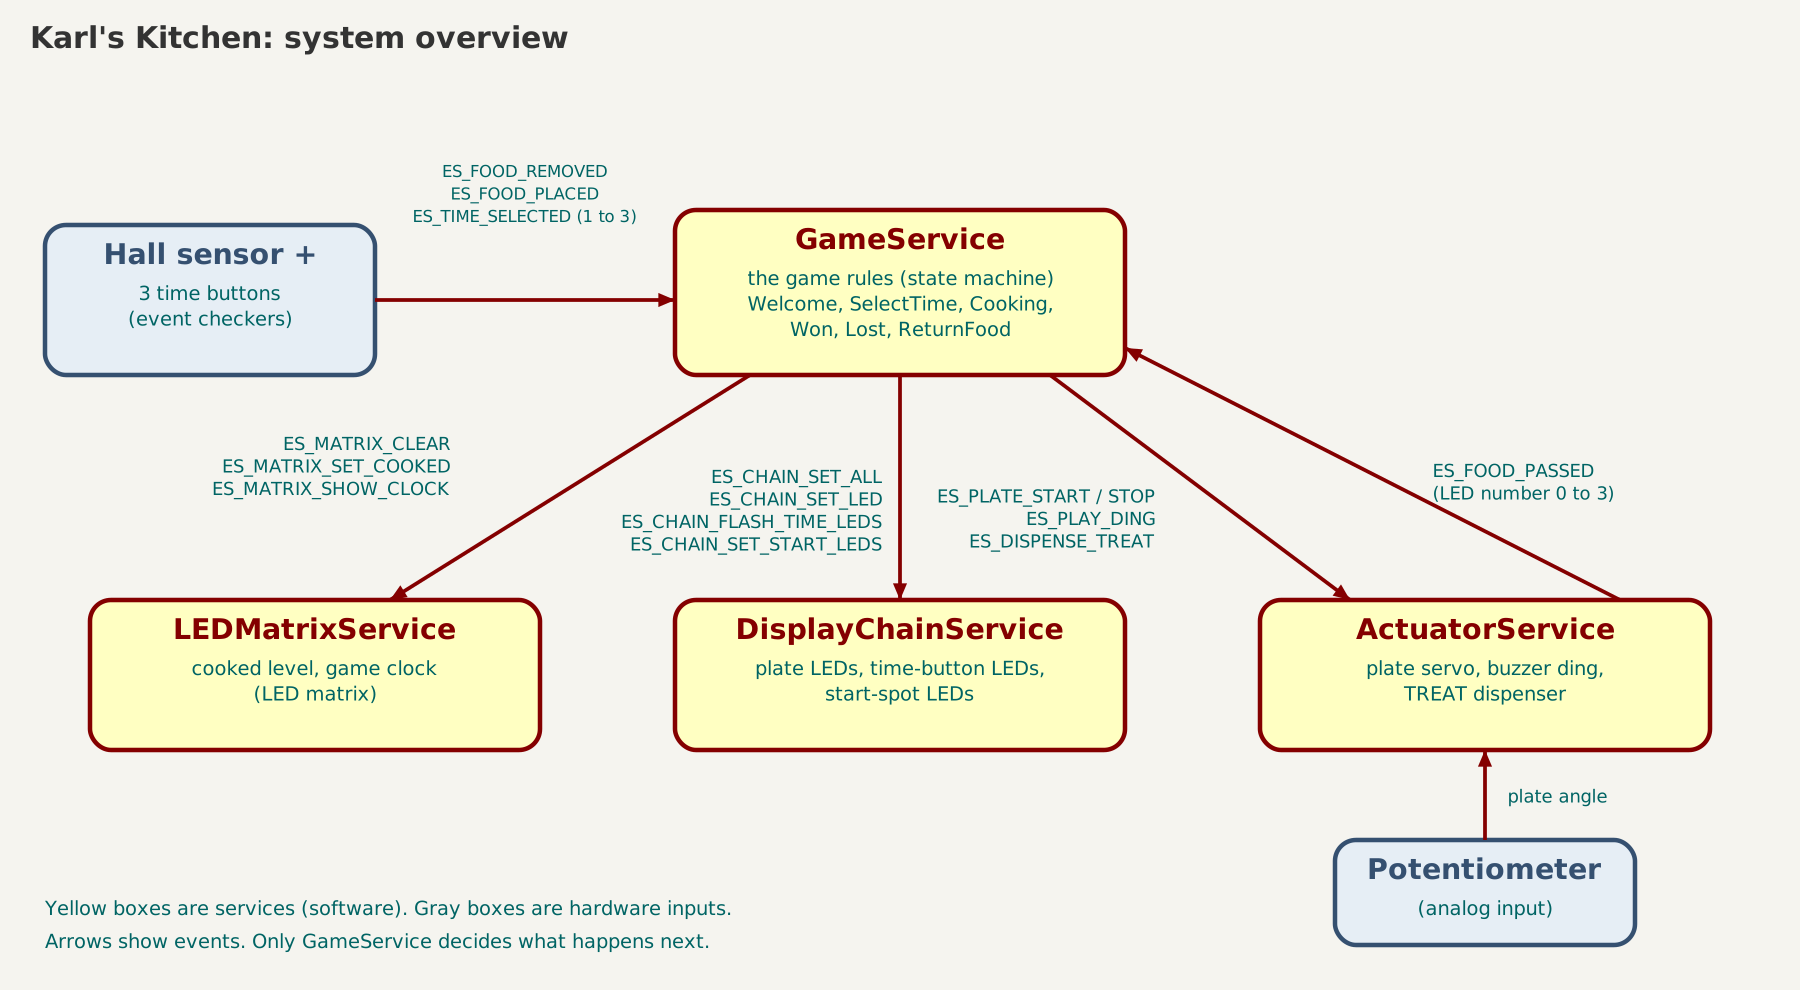
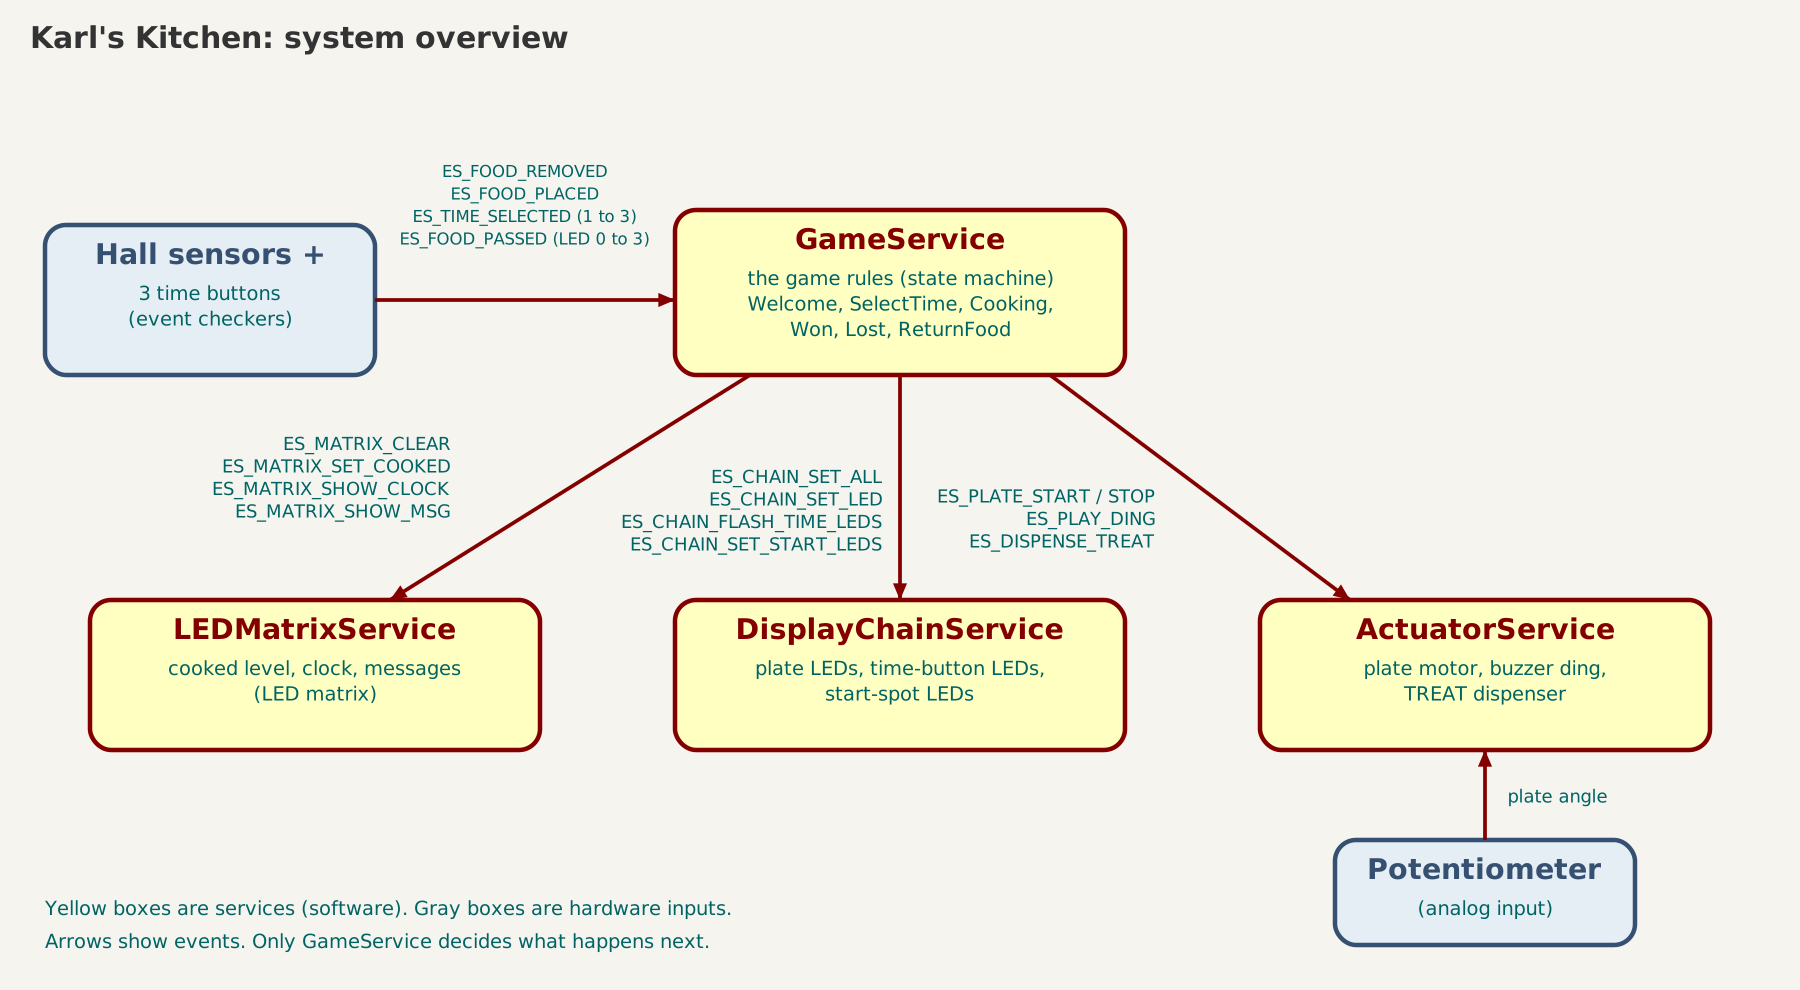
README and diagram: full pin map with owners, Hall sensors, new events, branch owners

diff --git a/README.md b/README.md
@@ -29,7 +29,7 @@ What happens when the player misses an LED (it turns off before they reach it) i
 | Analog input | The potentiometer angle sets where the plate points |
 | Non-contact sensing | Hall sensors |
 | 3 or more kinds of feedback | LEDs and LED matrix, buzzer ding, plate servo, TREAT |
-| Moving parts | Servo-driven plate and a servo TREAT dispenser |
+| Moving parts | Motor-driven plate and a servo TREAT dispenser |
 | Time display | Game clock shown on the LED matrix |
 | 20 second timeout | Inactivity timer resets the game |
 
@@ -55,8 +55,10 @@ The original hand-drawn diagram is in `docs/Checkpoint_1.pdf`.
 
 ## What each teammate needs to know
 
-Every service is a stub that already builds. Each owner fills in the `Run...` function of their own service.
-Don't edit `ES_Configure.h` on your branch (see "Working with Git").
+Each owner works in their own service. Don't edit `ES_Configure.h` on your branch (see "Working with Git").
+
+The 4 plate LEDs and the 4 Hall sensors next to them use the same numbers everywhere:
+0 = North, 1 = East, 2 = South, 3 = West.
 
 ### LED matrix (`LEDMatrixService`)
 
@@ -66,7 +68,11 @@ You receive:
 |---|---|---|
 | `ES_MATRIX_CLEAR` | none | Blank the matrix |
 | `ES_MATRIX_SET_COOKED` | cooked level, 0 to `MATRIX_MAX_COOKED_LEVEL` | Show how full the cooking meter is |
-| `ES_MATRIX_SHOW_CLOCK` | seconds elapsed | Show the passing of game time |
+| `ES_MATRIX_SHOW_CLOCK` | seconds elapsed | Show the passing of game time (shown as time left) |
+| `ES_MATRIX_SHOW_MSG` | a `DisplayMsg_t` from `LEDMatrixService.h` | Show a message on the timer display |
+
+`GameService` shows `MSG_WELCOME` in Welcome, `MSG_SET_TIME` in SelectTime, `MSG_DONE` on a win, `MSG_TIME_UP` on a loss and
+`MSG_TIMEOUT` after 20 s with no input. The message stays up during ReturnFood.
 
 You can ask `GameService` for these (include `GameService.h`):
 - `GetDifficulty()` returns 1, 2 or 3 (which time button was pressed), or 0 if no game has started.
@@ -86,6 +92,8 @@ You receive:
 | `ES_CHAIN_FLASH_TIME_LEDS` | 1 start, 0 stop | Flash the 3 LEDs next to the time buttons |
 | `ES_CHAIN_SET_START_LEDS` | 1 on, 0 off | Light the 4 LEDs around the food's start spot ("put the food back") |
 
+The plate LEDs are on one 74HC595 (bits 1 to 4 for LEDs 0 to 3). Bits 0, 5, 6 and 7 are free for the start-position and
+time-button LEDs. Dimming, flashing and the start LEDs aren't wired up yet.
 `GetDifficulty()` is available to you too. Your timer is `CHAIN_TIMER` (4).
 
 ### Actuators (`ActuatorService`)
@@ -99,11 +107,18 @@ You receive:
 | `ES_PLAY_DING` | Sound the buzzer |
 | `ES_DISPENSE_TREAT` | Run the TREAT dispenser |
 
-You send: `ES_FOOD_PASSED` to `GameService` (`PostGameService`) when the food reaches a plate LED, with the LED number (0 to 3)
-as the parameter. `GameService` only counts it if that LED is the lit one. If the plate stays on an LED, send the event again
-every 200 ms or so, so a newly lit LED under the food still counts.
+Right now the plate is a DC motor on an H-bridge, run from the keyboard (`a` start, `j` forward, `k` reverse, `x` stop,
+`?` status). `ES_PLATE_STOP` stops it. The potentiometer, dispenser and buzzer are still to do.
 
 Your timers are `PLATE_SAMPLE_TIMER` (5) and `SERVO_TIMER` (6).
+
+### Hall sensors (`HallSensors.c`)
+
+`Check4PlateHalls` reads the 4 Hall sensors one at a time with the ADC and posts `ES_FOOD_PASSED` to `GameService` with the
+sensor number (0 to 3) when the magnet under the food arrives. While the magnet stays there it repeats every 200 ms, so a
+newly lit LED under the food still counts. `GameService` only counts it if that LED is the lit one. At power-up it measures
+each sensor's resting value. If the magnet is sitting next to one sensor, that sensor's value is estimated from the other three.
+`InitHallSensors()` is called from `main()`.
 
 ### Game logic (`GameService`, hall sensor, buttons)
 
@@ -118,9 +133,9 @@ the pin numbers in two small functions once the pin map below is filled in.
 | `ES_FOOD_REMOVED` | `Check4FoodSensor` | `GameService` | none |
 | `ES_FOOD_PLACED` | `Check4FoodSensor` | `GameService` | none |
 | `ES_TIME_SELECTED` | `Check4TimeButtons` | `GameService` | button number 1 to 3 (also the difficulty) |
-| `ES_FOOD_PASSED` | `ActuatorService` | `GameService` | LED number 0 to 3 |
+| `ES_FOOD_PASSED` | `Check4PlateHalls` | `GameService` | LED number 0 to 3 |
 | `ES_COOKED`, `ES_GAME_CLOCK_ELAPSED` | `GameService` | `GameService` | none |
-| `ES_MATRIX_CLEAR`, `ES_MATRIX_SET_COOKED`, `ES_MATRIX_SHOW_CLOCK` | `GameService` | `LEDMatrixService` | see above |
+| `ES_MATRIX_CLEAR`, `ES_MATRIX_SET_COOKED`, `ES_MATRIX_SHOW_CLOCK`, `ES_MATRIX_SHOW_MSG` | `GameService` | `LEDMatrixService` | see above |
 | `ES_CHAIN_SET_ALL`, `ES_CHAIN_SET_LED`, `ES_CHAIN_FLASH_TIME_LEDS`, `ES_CHAIN_SET_START_LEDS` | `GameService` | `DisplayChainService` | see above |
 | `ES_PLATE_START`, `ES_PLATE_STOP`, `ES_PLAY_DING`, `ES_DISPENSE_TREAT` | `GameService` | `ActuatorService` | none |
 
@@ -148,21 +163,34 @@ It also has keys for timers: `c` is one second of clock, `l` is the LED timer, `
 
 ## Pins
 
-Fill in the TBD rows before wiring so two people don't pick the same pin. Do it with a small pull request to `main`.
+Check this table before wiring so two people don't pick the same pin. Claim a pin with a small pull request to `main`.
 
-| Pin | Use |
-|---|---|
-| RA0 | SPI1 SS |
-| RA1 | SPI1 SDO |
-| RB14 | SPI1 SCK |
-| RB6 / RB7 | Serial to the CP2102 (RX / TX) |
-| RB0 / RB1 | Snap programming (PGED1 / PGEC1) |
-| TBD | Potentiometer |
-| TBD | Hall sensors |
-| TBD | Time buttons |
-| TBD | Servos |
-| TBD | Buzzer |
-| TBD | 74xxx595 chain |
+| Pin | Use | Owner |
+|---|---|---|
+| RA0 / AN0 | Hall sensor South | Jeremy |
+| RA1 / AN1 | Hall sensor West | Jeremy |
+| RA2 | Plate motor IN3 | Christopher |
+| RA3 | Plate motor IN4 | Christopher |
+| RA4 | free | |
+| RB0 / RB1 | Snap programming (PGED1 / PGEC1) | |
+| RB2 / AN4 | Hall sensor North | Jeremy |
+| RB3 / AN5 | Hall sensor East | Jeremy |
+| RB4 | SPI1 SS (LED matrix) | Alison |
+| RB5 | SPI1 SDO (LED matrix) | Alison |
+| RB6 / RB7 | Serial to the CP2102 (RX / TX) | |
+| RB8 | 74HC595 SER (data) | Jeremy |
+| RB9 | 74HC595 SRCLK (shift clock) | Jeremy |
+| RB10 | 74HC595 RCLK (latch) | Jeremy |
+| RB11 | Motor ENA (held low, channel A unused) | Christopher |
+| RB12 / AN12 | free | |
+| RB13 / AN11 | free | |
+| RB14 | SPI1 SCK (LED matrix) | Alison |
+| RB15 | Plate motor ENB | Christopher |
+
+Still without pins: the potentiometer (needs an analog pin, so RB12 or RB13), the 3 time buttons, the food start-position
+sensor, the buzzer and the dispenser servo. Only RA4, RB12 and RB13 are free (RB11 too, if ENA is tied low on the board),
+so some of these have to share. Options: the 3 buttons on one analog pin through a resistor ladder, and the buzzer and the
+LEDs on spare 595 outputs or a second 595.
 
 ## Working with Git
 
@@ -171,8 +199,8 @@ Fill in the TBD rows before wiring so two people don't pick the same pin. Do it 
 | `main` | everyone, by pull request | Always builds. Shared files |
 | `game-logic` | Adam | `GameService`, `EventCheckers` |
 | `actuators` | Christopher | `ActuatorService` |
-| `led-matrix-display` | TBD | `LEDMatrixService`, SPI and matrix HAL files |
-| `display-chain` | TBD | `DisplayChainService` |
+| `led-matrix-display` | Alison | `LEDMatrixService`, SPI and matrix HAL files |
+| `display-chain` | Jeremy | `DisplayChainService`, `HallSensors` |
 
 - Work only on your own branch. Never push straight to `main`.
 - Commit small and often, with a short message that says what changed.
